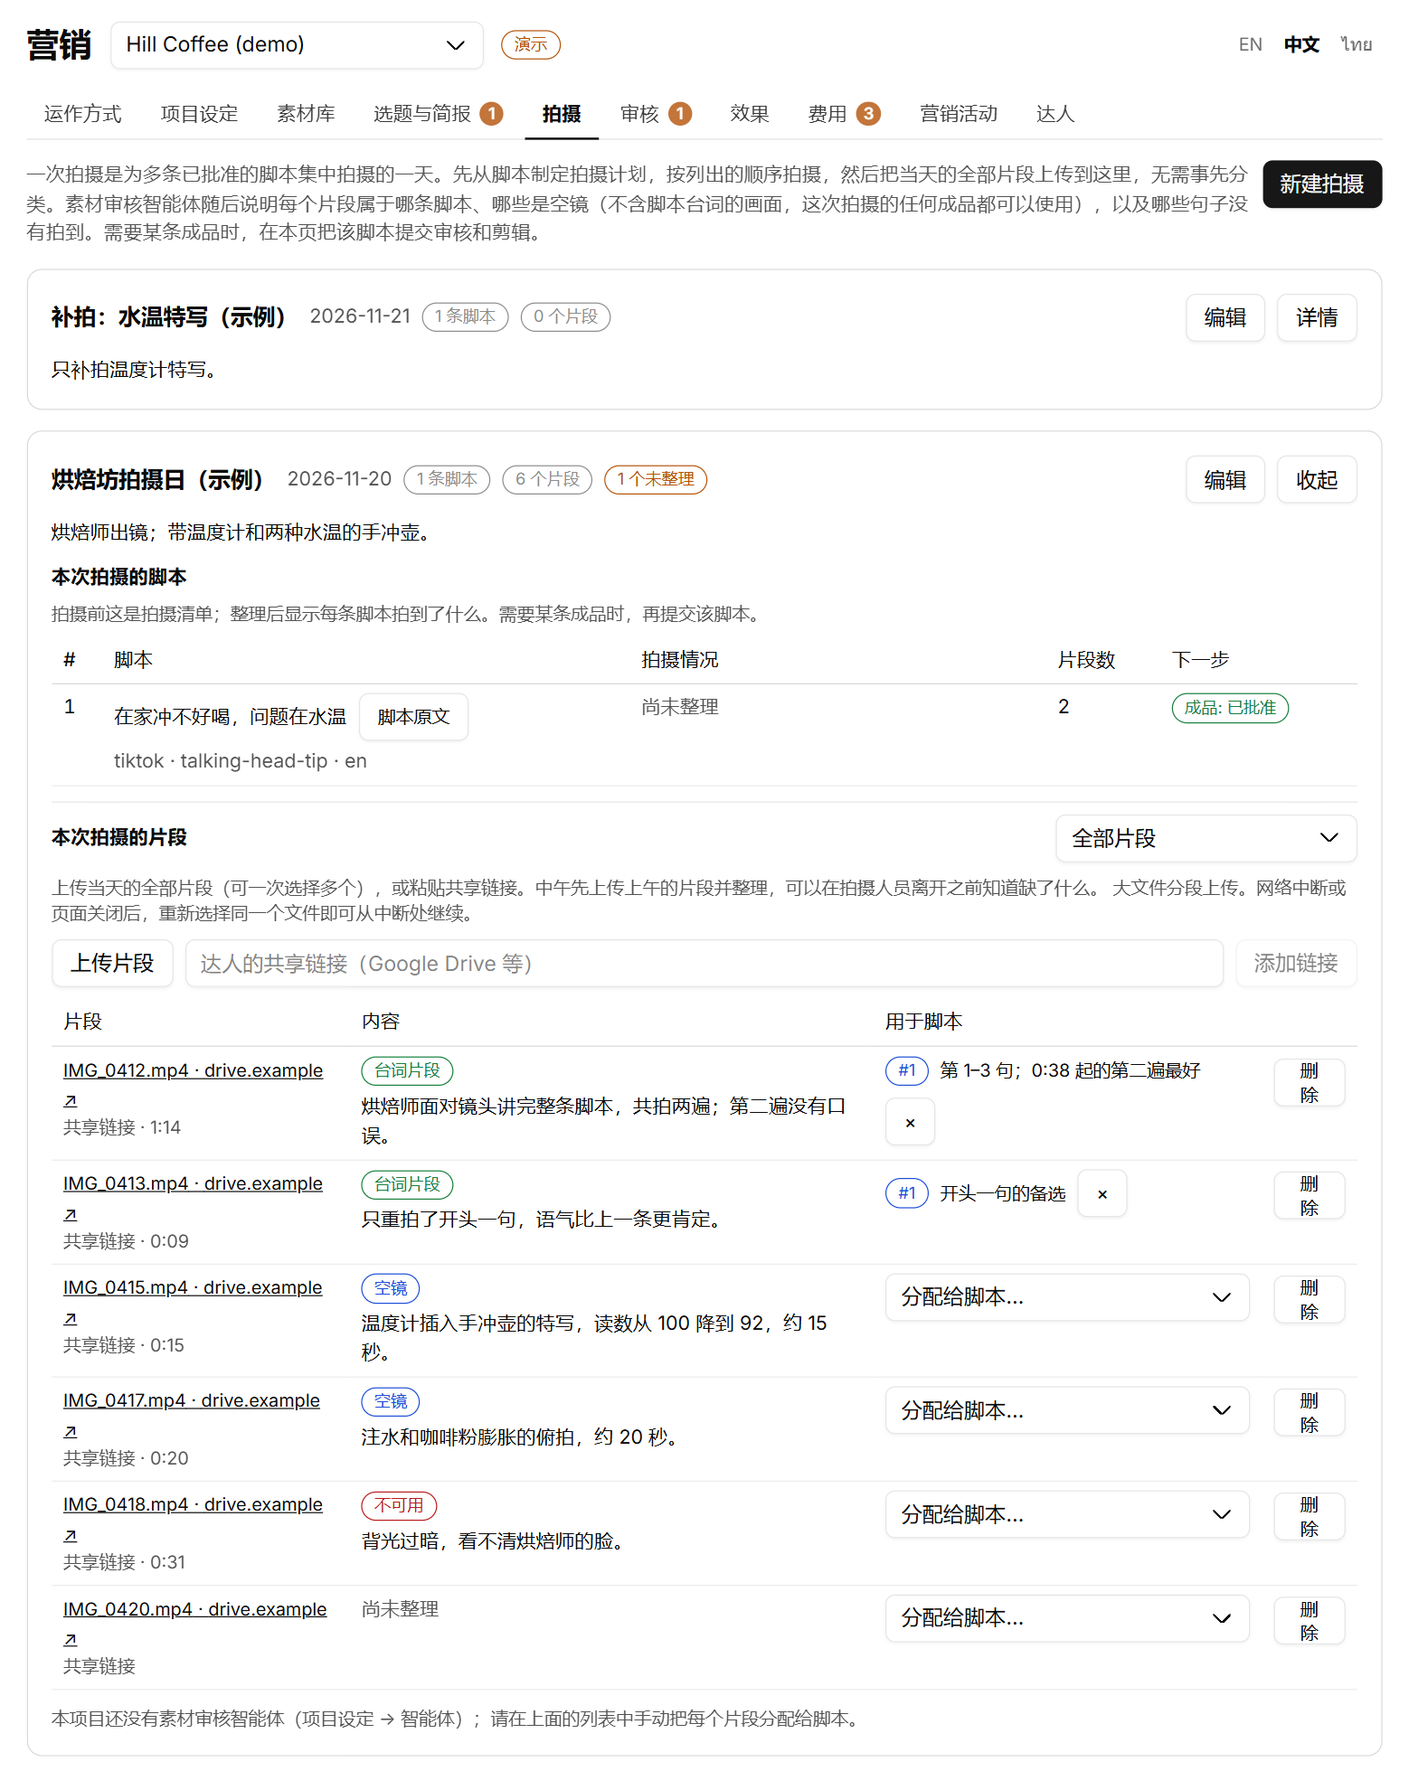
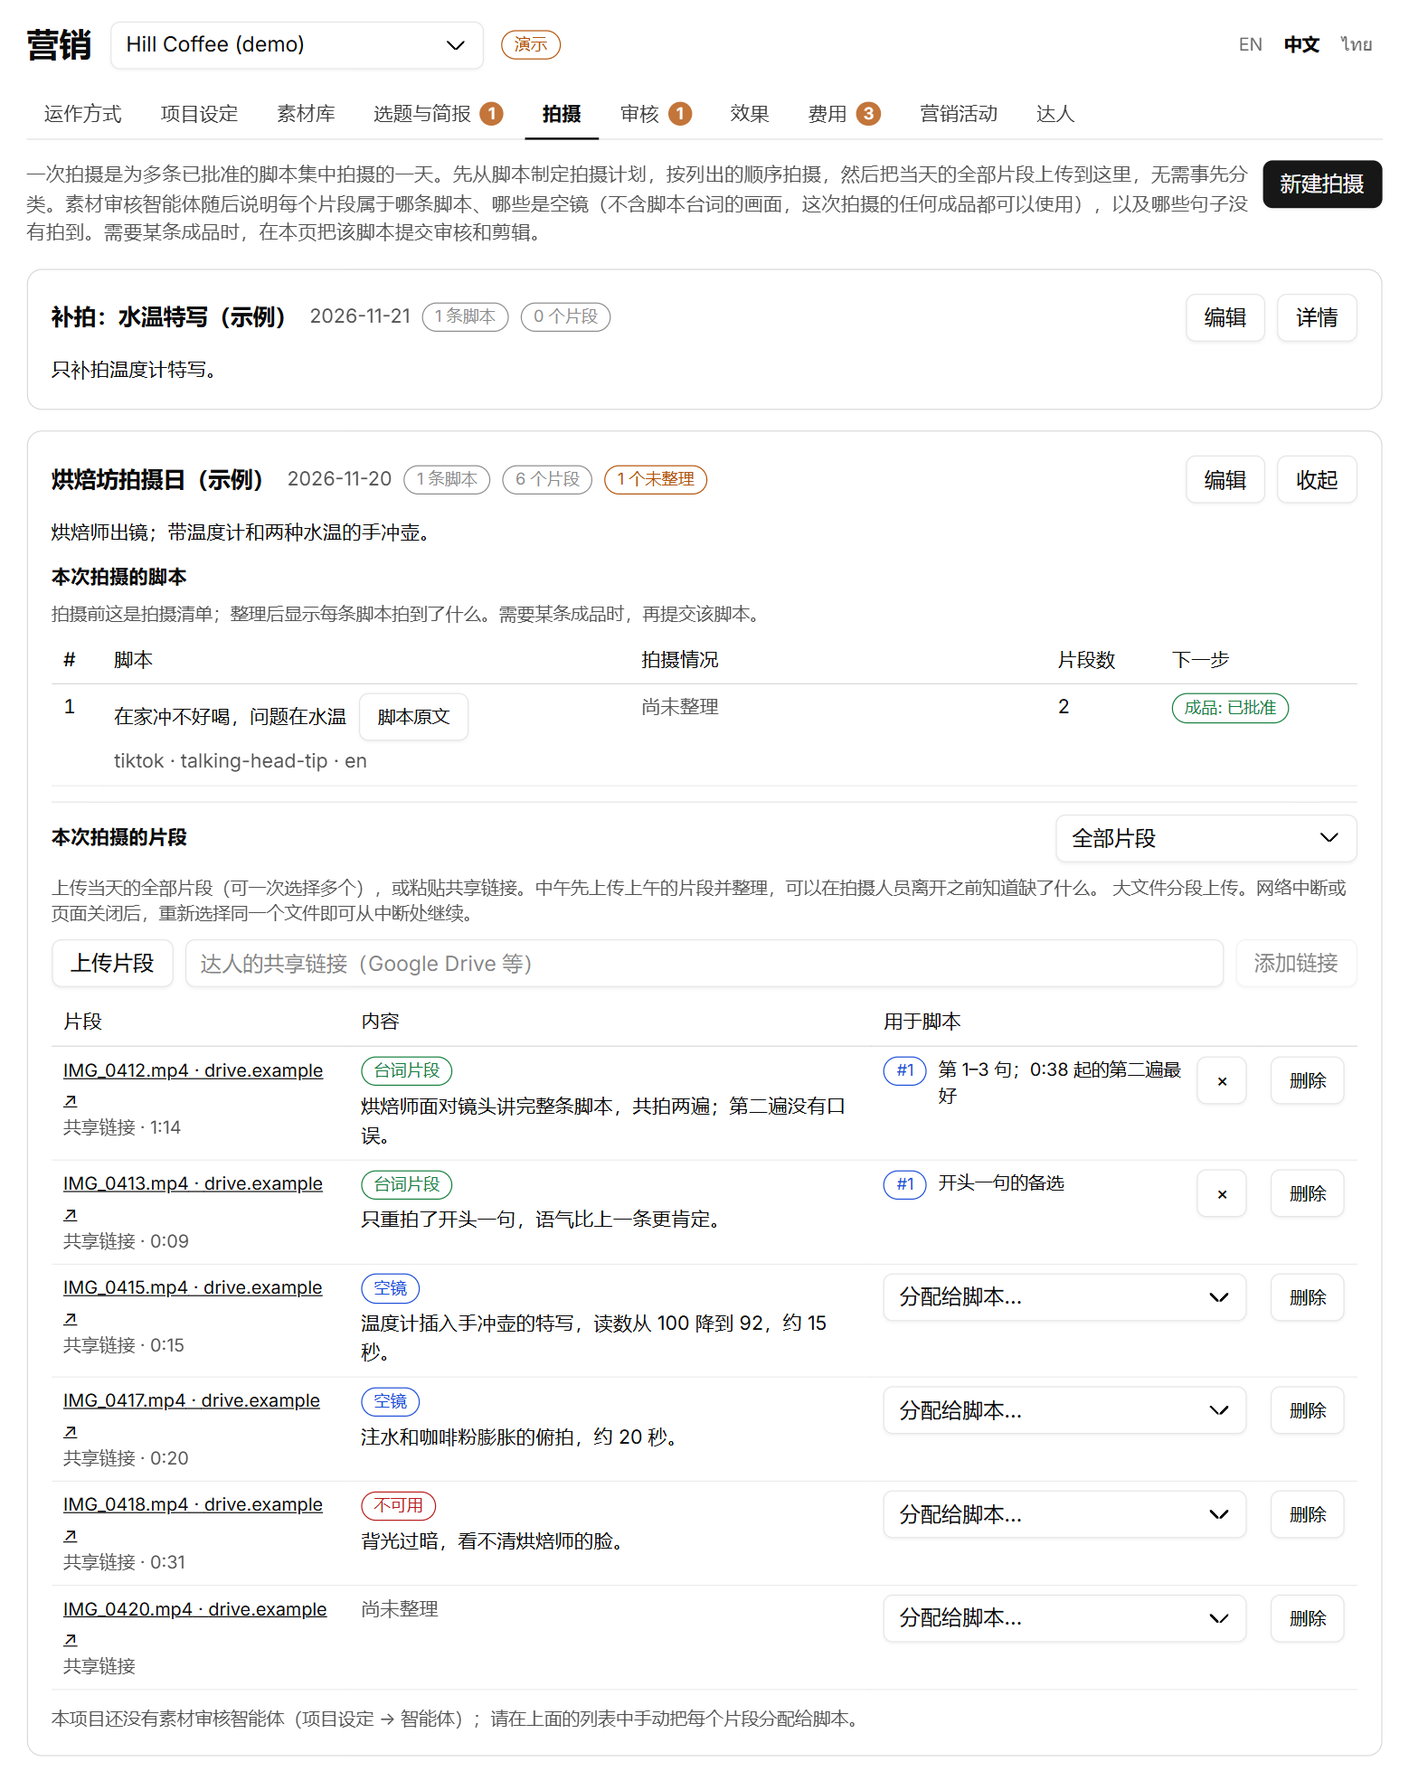
docs(guide): the marketing book's first chapter starts from the project
The getting-started chapter now goes top-down: what a project is and how
marketing is turned on for it, then the six parts under a project and every
kind of thing the system keeps in each (what it holds, who is responsible, on
which page, which chapter), then the end-to-end example to tie them together.
The shoots screenshot is retaken with the corrected button layout.

diff --git a/guide/marketing/getting-started.md b/guide/marketing/getting-started.md
@@ -1,33 +1,133 @@
 ---
 id: getting-started
-title: 快速上手：一条内容的全过程
+title: 快速上手：从项目到每一项工作
 sidebar_position: 2
 ---
 
-# 快速上手：一条内容的全过程
+# 快速上手：从项目到每一项工作
 
 ## 学习目标
 
 学完本章，应能：
 
-- 登录系统并找到自己的待办事项；
-- 说出一条内容从客户的一个问题到获得推广所经过的每一步；
-- 指出每一步由谁完成、在哪个页面完成。
+- 说明项目是什么，以及一个项目之下系统管理哪些内容；
+- 对每一类内容，说出它在哪个页面、由谁负责；
+- 用一条内容的全过程，把这些内容连起来。
 
-本章用演示项目 Hill Coffee 中一条已经走完全程的内容作为例子。Hill Coffee 是一家虚构的咖啡烘焙坊，通过网店销售咖啡豆；例子中的数字和记录都可以在演示项目中看到，人物的做法是为说明流程而写的。后面各章分别详细说明每一步。
+本章自上而下：先讲项目，再讲项目之下的六个部分和其中的每一类内容，最后用演示项目中的一条视频走完全程。后面各章分别详细说明。
 
-## 第一次登录
+## 项目
+
+**项目**是营销的管理单位：为一个品牌在一个市场做营销。例如同一家公司在泰国和越南各做一套营销，就是两个项目。
+
+系统中的一切都属于某个项目。项目之间互不影响：各有各的设定、素材、选题、内容、数字和费用。所有项目使用同一套流程，差别只在各自的项目设定。
+
+### 进入一个项目
 
 1. 登录公司的智能体工作平台，在左侧菜单选择“营销”。
-2. 在页面顶部的下拉框中选择项目。本章请选择 **Hill Coffee (demo)**。
+2. 页面顶部的下拉框列出公司的全部项目，选择其中一个。本章请选择演示项目 **Hill Coffee (demo)**。
 3. 页面右上角选择“中文”。
-4. 查看“运作方式”页顶部的“等你处理”：这里列出需要你本人处理的事项。
 
-![“运作方式”页](./img/overview.png)
+![一个项目的“运作方式”页](./img/overview.png)
 
-以后每天的工作都从“等你处理”开始。
+### 为项目启用营销
 
-## 例子：《在家冲不好喝，问题在水温》
+项目在平台的项目列表中创建。尚未启用营销的项目，在下拉框中标有“未启用营销”。选择它之后，由公司的所有者或管理员点击**为此项目启用营销**。
+
+启用之后，项目有了自己的设定、素材库、选题、审核、效果和费用记录，但还不会运行：**项目设定获得老板批准之前，智能体不做任何工作。**
+
+项目不再做营销时，由所有者在“项目设定”页底部**停用营销**。停用不删除任何数据。
+
+## 项目之下的六个部分
+
+| 部分 | 其中的内容 | 主要负责者 |
+|---|---|---|
+| 基础 | 项目设定、人员、智能体 | 老板、所有者 |
+| 内容 | 素材库、选题与简报、脚本、原始素材与拍摄、成品 | 负责人、审核人、专员 |
+| 发布与效果 | 帖子与追踪、数字与生意、判定 | 专员 |
+| 花费 | 推广、付款记录、广告账户限额 | 负责人、专员 |
+| 合作 | 达人、营销活动、达人的 demo、Spark Ads 授权码 | 负责人、审核人、专员 |
+| 协作 | 待办事项、智能体的任务、审核方式 | 所有人 |
+
+以下按这张表逐个部分说明：每个部分管理什么、在哪个页面、由谁负责。
+
+### 基础
+
+基础部分决定项目如何运行。它们都在“项目设定”页，由老板和所有者负责。
+
+| 内容 | 系统管理什么 | 由谁负责 | 详见 |
+|---|---|---|---|
+| 项目设定 | 目标、客户、定位、内容主题、说话风格、语言、术语表、发布平台、引导到哪里、素材来源、调研计划、达人计划、能力、规则、广告账户、爆款规则、待验证的假设；每次修改保存为一个版本 | 起草后由老板批准 | [项目设定](./settings.md) |
+| 人员 | 谁是负责人、审核人、专员；每种发布语言的检查人 | 老板批准 | [整体流程](./overview.md) |
+| 智能体 | 六项工作各由哪个智能体承担：调研员、内容制作、分析员、达人发掘、素材审核、视频剪辑 | 所有者设置 | [整体流程](./overview.md) |
+
+三点需要记住：
+
+- 智能体只依据已批准的项目设定工作，缺少的内容不得自行猜测。
+- 人员必须是人。批准、审核、签约和付款不能交给智能体。
+- 某项工作没有指定智能体时，这项工作由人完成，页面上会给出提示。
+
+### 内容
+
+内容部分是每周的主要工作。一条内容大致依次经过下表中的各项。
+
+| 内容 | 系统管理什么 | 由谁负责 | 页面 | 详见 |
+|---|---|---|---|---|
+| 市场素材库 | 同行做得好的内容，每条附数字和分析 | 调研员搜集；成员可以添加 | 素材库 | [调研与素材库](./research.md) |
+| 客户原话库 | 客户用自己的话说的问题和顾虑 | 调研员整理；成员可以添加 | 素材库 | [调研与素材库](./research.md) |
+| 选题 | 题目、所属内容主题、依据的素材、要验证的假设 | 内容制作提出；负责人选定或放弃 | 选题与简报 | [选题与简报](./ideas.md) |
+| 简报 | 制作方式、平台、形式、角度、开头、时长、引导动作、引导到哪里、所属活动 | 内容制作撰写；负责人确认 | 选题与简报 | [选题与简报](./ideas.md) |
+| 脚本 | 发布语言的完整文字及其中文回译，按版本保存 | 内容制作撰写；语言检查人检查；审核人批准或退回 | 审核 | [脚本与审核](./review.md) |
+| 原始素材 | 为一条脚本上传的片段或达人的共享链接；素材审核报告 | 专员上传；素材审核检查 | 选题与简报 | [制作方式与原始素材](./production.md) |
+| 拍摄 | 为多条脚本集中拍摄的一天：脚本清单、全部片段、每个片段的类别和所属脚本、缺少的句子 | 专员新建和上传；素材审核整理 | 拍摄 | [集中拍摄](./shoots.md) |
+| 成品 | 可以发布的最终内容；视频附剪辑说明 | 视频剪辑或内容制作提交；审核人批准或退回 | 审核 | [剪辑与成品](./editing.md) |
+
+“选题与简报”页的看板显示每个选题走到了哪一步；点击一个选题，可以看到它的简报、脚本、原始素材和成品。
+
+### 发布与效果
+
+| 内容 | 系统管理什么 | 由谁负责 | 页面 | 详见 |
+|---|---|---|---|---|
+| 帖子 | 已发布内容的链接、发布时间、所在账号 | 专员发布并登记 | 选题与简报 | [发布与追踪](./publishing.md) |
+| 追踪 | 每条内容的追踪链接或追踪码 | 专员在发布时使用并登记 | 选题与简报 | [发布与追踪](./publishing.md) |
+| 数字 | 发布后 1 小时、24 小时、72 小时、7 天、28 天的曝光、留存、看完率、收藏、转发、评论、点击 | 分析员读取公开数字；专员补充后台数字 | 效果 | [效果与爆款判定](./results.md) |
+| 生意 | 由内容带来的咨询、注册和订单 | 按追踪记录；专员补记 | 效果 | [发布与追踪](./publishing.md) |
+| 判定 | 每条内容是爆款、受欢迎但没成交，还是普通 | 系统按项目的爆款规则判定 | 效果 | [效果与爆款判定](./results.md) |
+
+### 花费
+
+| 内容 | 系统管理什么 | 由谁负责 | 页面 | 详见 |
+|---|---|---|---|---|
+| 推广 | 为爆款申请的预算、状态、已花金额、每日检查的结果、加投 | 负责人或分析员申请；按公司授权表批准；分析员启动和检查 | 效果、费用 | [推广与费用](./boosts.md) |
+| 付款记录 | 每一笔付款：类别、金额、状态、收据 | 负责人批准付款；专员支付并标记已付 | 费用 | [推广与费用](./boosts.md) |
+| 广告账户限额 | 本月已用金额与限额的对比 | 老板在项目设定中填写 | 运作方式、费用 | [推广与费用](./boosts.md) |
+
+系统只记录花费，不批准花费。每一笔钱由谁批准，按公司的授权表。
+
+### 合作
+
+| 内容 | 系统管理什么 | 由谁负责 | 页面 | 详见 |
+|---|---|---|---|---|
+| 达人 | 账号、粉丝、领域、评估数字、报价、追踪码、合作阶段 | 达人发掘寻找和评估；人联系、谈判和签约 | 达人 | [达人合作](./creators.md) |
+| 营销活动 | 目标、优惠内容、起止日期、预算；参加的达人及其阶段；归入的帖子；汇总数字 | 负责人新建和管理 | 营销活动 | [营销活动](./campaigns.md) |
+| 达人的 demo | 达人发布前发来的视频、审核报告、审核意见 | 素材审核检查；审核人批准或退回 | 营销活动 | [达人合作](./creators.md) |
+| Spark Ads 授权码 | 推广达人视频所需的授权码及其到期日 | 专员向达人索取并填写 | 效果、营销活动 | [推广与费用](./boosts.md) |
+
+### 协作
+
+| 内容 | 系统管理什么 | 页面 | 详见 |
+|---|---|---|---|
+| 待办事项 | 按你的角色列出需要你本人处理的事项 | 运作方式 | [页面与日常入口](./workspace.md) |
+| 智能体的任务 | 智能体的每项工作及其进度；可以在任务中留言或回答提问 | 运作方式右上角 | [页面与日常入口](./workspace.md) |
+| 审核方式 | 每个平台是逐条审核还是抽查，以及连续通过的件数 | 运作方式 | [整体流程](./overview.md) |
+
+每天的工作从“等你处理”开始。
+
+## 把各部分连起来
+
+上面六个部分是系统管理的全部内容。下面用一条内容说明它们如何前后相接。
+
+### 例子：《在家冲不好喝，问题在水温》
 
 这条视频从客户反复提出的一个问题开始，经过十个步骤，最后成为项目的一条爆款并获得推广。下表是全过程的概览，之后逐步说明。
 
@@ -44,7 +144,7 @@ sidebar_position: 2
 | 9 | 记录数字，判定为爆款 | 分析员（智能体）、专员 | 效果 |
 | 10 | 申请、批准并启动推广 | 负责人、分析员；按授权表批准 | 效果、费用 |
 
-### 步骤 1：客户的问题
+#### 步骤 1：客户的问题
 
 客服在聊天中反复被问到同一个问题：“为什么我在家冲的没有店里好喝？”本月出现了 23 次。专员把它加入客户原话库。
 
@@ -52,7 +152,7 @@ sidebar_position: 2
 
 客户原话决定**讲什么**。出现次数多的问题，说明有很多人关心。
 
-### 步骤 2：一条值得学习的同行视频
+#### 步骤 2：一条值得学习的同行视频
 
 调研员在每周调研中找到一条同行视频《手冲咖啡最常见的三个错误》，播放量 41.2 万，明显高于该账号平时的水平。调研员把它加入市场素材库并分析：
 
@@ -64,19 +164,19 @@ sidebar_position: 2
 
 市场素材决定**怎么讲**。
 
-### 步骤 3：提出选题
+#### 步骤 3：提出选题
 
 内容制作智能体把两者结合：用同行视频的开头形式，回答客户的问题。它提出选题《在家冲不好喝，问题在水温》，归入内容主题“冲煮知识”，并注明要验证的假设：“推翻猜测”式开头比提问式开头效果好。
 
 选题出现在“选题与简报”页的“等负责人决定”一列。
 
-### 步骤 4：负责人选定
+#### 步骤 4：负责人选定
 
 负责人看到这个选题对应客户最常问的问题，属于占比尚未用完的内容主题，团队本周也有拍摄名额，于是点击**选定**。
 
 ![选题看板](./img/ideas.png)
 
-### 步骤 5：简报
+#### 步骤 5：简报
 
 选定后，内容制作智能体撰写简报。负责人阅读后点击**确认简报**。
 
@@ -93,7 +193,7 @@ sidebar_position: 2
 
 简报在动笔之前确定了这条内容的全部要点。注意引导动作只有一个，并且指向一个可以追踪的位置。
 
-### 步骤 6：脚本和审核
+#### 步骤 6：脚本和审核
 
 简报确认后，内容制作智能体撰写脚本并提交审核。审核人在“审核”页对照右侧的检查项和项目规则逐条检查：事实是否可以核实，是否使用了禁用说法，是否符合说话风格，引导动作是否只有一个。
 
@@ -107,7 +207,7 @@ sidebar_position: 2
 
 上图是“审核”页当前的样子，显示的是另一份待审核的脚本。
 
-### 步骤 7：拍摄、剪辑和成品
+#### 步骤 7：拍摄、剪辑和成品
 
 脚本批准后，专员收到制作任务，按脚本拍摄，然后在选题详情的“原始素材”中上传片段并提交。之后的过程是：
 
@@ -119,13 +219,13 @@ sidebar_position: 2
 
 ![选题详情](./img/idea-detail.png)
 
-### 步骤 8：发布并登记
+#### 步骤 8：发布并登记
 
 专员在 TikTok 发布成品，评论区放上带追踪参数的网店链接。然后在选题详情中点击**记录为已发布**，填写帖子链接、追踪链接和发布时间。这条视频于 2026-10-26 发布。
 
 登记之后，效果统计才开始。
 
-### 步骤 9：数字和判定
+#### 步骤 9：数字和判定
 
 发布后，系统在固定的时间点记录数字。这条视频在 72 小时的数字是：
 
@@ -141,13 +241,13 @@ sidebar_position: 2
 
 同一时期的另一条视频《10 秒学会拉花》互动数字同样靠前，但没有带来生意，判定为“受欢迎但没成交”。它不能推广，应当先更换引导动作。
 
-### 步骤 10：推广
+#### 步骤 10：推广
 
 爆款可以申请推广。负责人在“效果”页为这条视频申请 80 美元的推广预算，这笔钱按公司的授权表获得批准。批准之后，由分析员在广告账户中启动并每天检查。在演示项目中，这笔推广处于“已批准”、尚未启动的状态，“费用”页显示它及其付款记录。
 
 ![“费用”页](./img/money.png)
 
-### 复盘
+#### 复盘
 
 这条视频连同它的数字回到市场素材库。它验证了简报中的假设：“推翻猜测”式的开头有效。分析员据此提出对项目设定中“待验证的假设”的修改建议，由老板批准。下一周的选题会更多地使用这种开头。
 
@@ -161,12 +261,13 @@ sidebar_position: 2
 
 ## 练习
 
-1. 在演示项目中按本章的十个步骤，依次打开对应的页面，找到本章提到的每一项信息：客户的问题、同行视频的分析、选题、简报、脚本、发布日期、72 小时的数字、判定和推广。
-2. 在“选题与简报”页找到选题《豆子开封后能放多久？》，说明它目前处于十个步骤中的哪一步，下一步由谁完成。
-3. 对照本章的例子，说明你的角色参与其中的哪几步。
+1. 对照“项目之下的六个部分”的表，在演示项目中为表中的每一项找到对应的页面。
+2. 在演示项目中按本章的十个步骤，依次打开对应的页面，找到本章提到的每一项信息：客户的问题、同行视频的分析、选题、简报、脚本、发布日期、72 小时的数字、判定和推广。
+3. 在“选题与简报”页找到选题《豆子开封后能放多久？》，说明它目前处于十个步骤中的哪一步，下一步由谁完成。
+4. 对照本章的例子，说明你的角色参与其中的哪几步。
 
 ## 本章要点
 
-- 一条内容经过十个步骤，从客户的一个问题到获得推广。
-- 每天的工作从“等你处理”开始。
-- 后面各章按这十个步骤的顺序展开。
+- 项目是管理单位；项目之下分为基础、内容、发布与效果、花费、合作和协作六个部分。
+- 每一类内容都有固定的页面和负责者。
+- 一条内容经过十个步骤，从客户的一个问题到获得推广；后面各章按这个顺序展开。

diff --git a/guide/marketing/index.md b/guide/marketing/index.md
@@ -26,7 +26,7 @@ sidebar_position: 1
 
 | 部分 | 章节 | 内容 |
 |---|---|---|
-| 入门 | [快速上手](./getting-started.md)、[整体流程](./overview.md)、[页面与日常入口](./workspace.md) | 一条内容的全过程，九个环节，人与智能体的分工，每天从哪里开始 |
+| 入门 | [快速上手](./getting-started.md)、[整体流程](./overview.md)、[页面与日常入口](./workspace.md) | 项目及其之下管理的全部内容，一条内容的全过程，九个环节，人与智能体的分工，每天从哪里开始 |
 | 准备 | [项目设定](./settings.md) | 智能体工作所依据的全部信息 |
 | 内容制作 | [调研与素材库](./research.md)、[选题与简报](./ideas.md)、[脚本与审核](./review.md)、[制作方式与原始素材](./production.md)、[集中拍摄](./shoots.md)、[剪辑与成品](./editing.md)、[发布与追踪](./publishing.md) | 一条内容从素材到发布的每一步 |
 | 效果与投入 | [效果与爆款判定](./results.md)、[推广与费用](./boosts.md) | 如何判断内容是否有效，如何花钱 |
